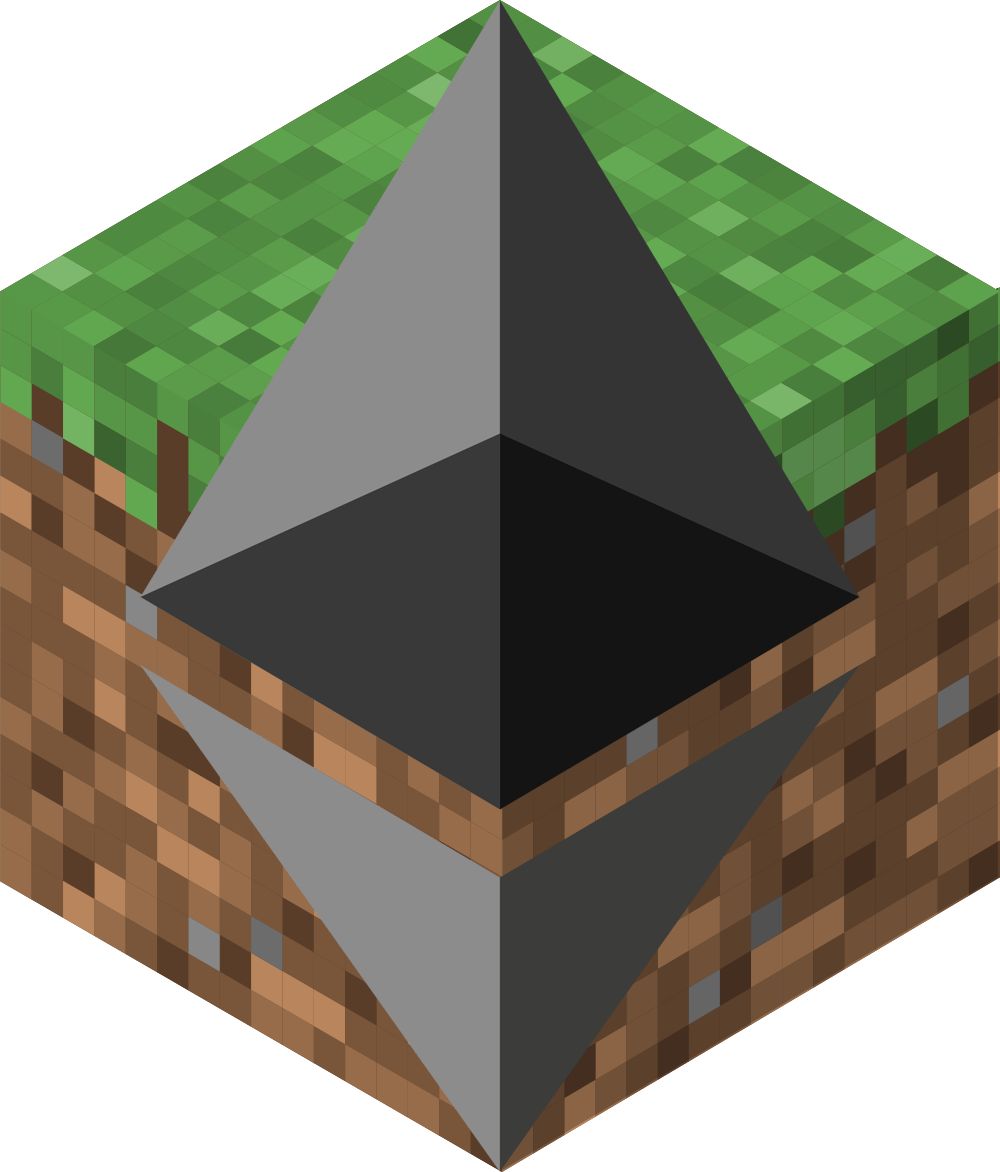
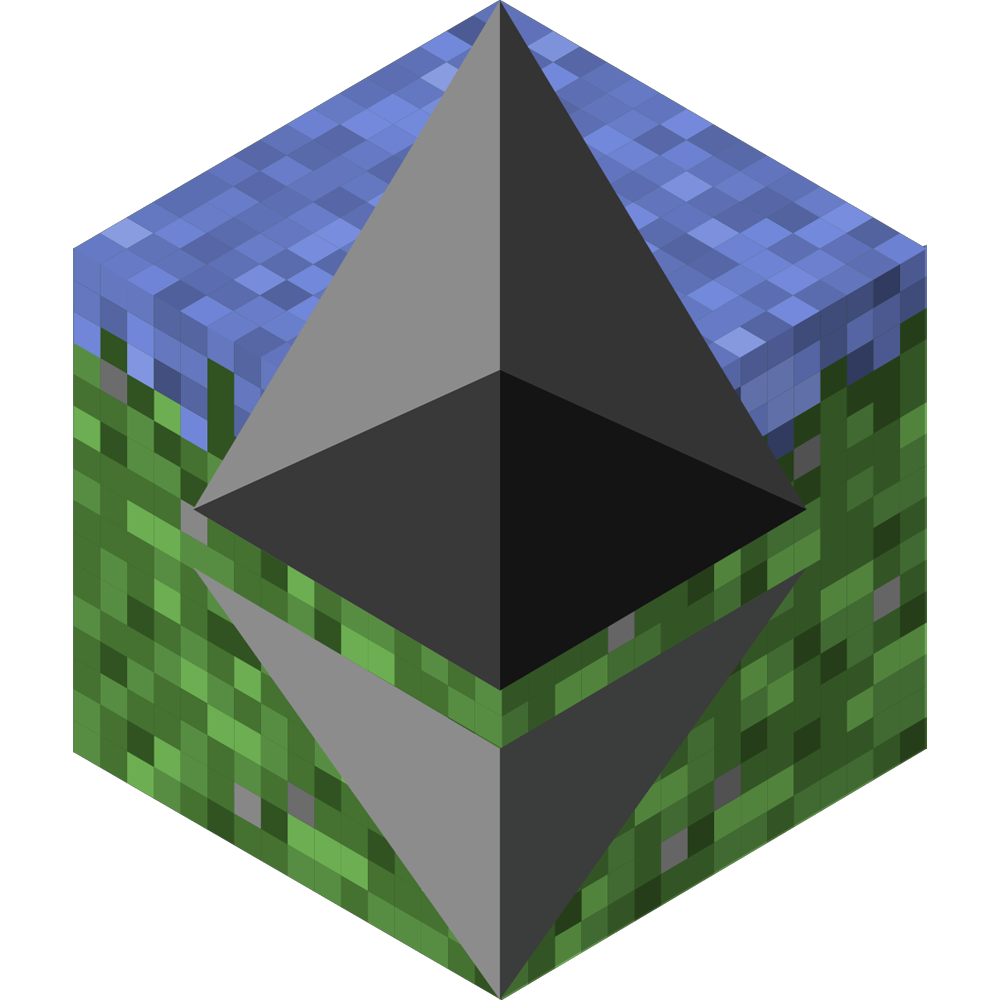
10

diff --git a/src/Components/HeroSection/HeroSection.js b/src/Components/HeroSection/HeroSection.js
@@ -44,10 +44,10 @@ const Wrapper = styled.div`
 
   @media only screen and (max-width: 520px) {
     .image {
-      width: 40%;
+      width: 80%;
     }
     .title {
-      font-size: 36px;
+      font-size: 26px;
     }
     .subtitle {
       font-size: 16px;
@@ -63,10 +63,10 @@ const HeroSection = () => {
   return (
     <Col className="mx-auto">
       <Wrapper>
-        <img src="./images/CHADCRAFT.png" alt="" className="image" />
+        <img src="./images/CHADCRAFT2.png" alt="" className="image" />
         <h1 className="title">CHADCRAFT</h1>
         <p className="m-0 subtitle">
-          Decentralized Minecraft Protocol, secured by Ethereum
+        Minecraft + Blockchain + CHAD's where CHAD's get to craft !
         </p>
         <Link
           to="learnmore"
